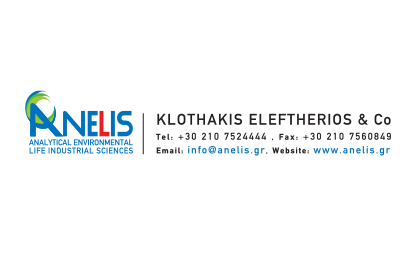
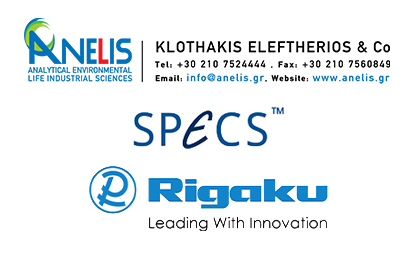
Update sponsor

Changed region(s): [[0.0312, 0.0625, 0.9375, 0.9062], [0.375, 0.1562, 0.9375, 0.3438]]

diff --git a/sponsors.html b/sponsors.html
@@ -189,26 +189,33 @@
                             <img src="images/sponsors/pic08.png" width="400" alt="Anelis"/>
                         </a>
                     </div>
-                    The enterprise <strong>ANELIS</strong>-KLOTHAKIS ELEFTHERIOS was founded in 2006 by Mr. Eleftherios Klothakis,
-                    Chemical Engineer, graduate of The National Technical University of Athens, after a long and
-                    successful career as sales manager, responsible for the promotion of the products of some of the
-                    world's largest companies in the field of Scientific Instruments and Equipment.
-                    <br/>
+                    <p><strong>ANELIS EE &ndash; KLOTHAKIS ELEFTHERIOS Co EE</strong> was founded in 2006. The purpose
+                        is to provide integrated and best quality solutions in the field of scientific instruments and
+                        equipment, combined with full technical and scientific support. The aim of
+                        <strong>ANELIS</strong> is to satisfy the high technology and recent research needs of the
+                        public and the private sector laboratories and to promote the sales of new technologies systems,
+                        with key applications in research, quality control, production process and life sciences. ANELIS
+                        is an ISO9001, ISO14001, ISO13485 accredited company, and&nbsp; is representing state-of-the-art
+                        factories, details given in the link: <a href="http://www.anelis.gr">www.anelis.gr/</a></p>
 
-                    The company continues its successfully operation under in its present legal form ANELIS- KLOTHAKIS
-                    ELEFTHERIOS & Cο Ltd, as a first step to the extension of the areas of activities and partnerships
-                    with new companies.
-                    <br/>
-                    The purpose of ANELIS operation is to provide integrated and best quality solutions in the field of
-                    scientific instruments and equipment, combined with full technical and scientific support.
-                    <br/>
+                    <p><strong>SPECS</strong> leads the way in state-of-the-art technology, cutting-edge components and
+                        individually designed complex systems for surface analysis. SPECS GmbH headquarters are situated
+                        in the center of Germany&rsquo;s capital Berlin with a subsidiary, <a
+                                href="http://www.specs-zurich.com">SPECS Zurich GmbH</a>, based in Zurich, Switzerland.
+                        SPECS forms a team of scientists and engineers with more than 150 employees engaged in the
+                        design and production of instruments for nanotechnology, material science and surface science in
+                        general. For now over 25 years, know-how, experience, intensive contact to scientists from all
+                        over the world, customer orientation and reliable quality control have been the keys to SPECS
+                        success. More details: <a href="https://www.specs-group.com/">https://www.specs-group.com/</a>
+                    </p>
+                    <p><strong>Rigaku Corporation</strong>, has been at the forefront of analytical and industrial
+                        instrumentation technology, since its inception in Japan in 1951. A world leader in the fields
+                        of WD-, ED- and TXRF- X-Ray Fluorescence Spectrometry, X-Ray Diffraction, SAXS Systems, X-Ray
+                        Rotating Anode Generators and Goniometers. Rigaku is also leader in Small Molecule and Protein
+                        Crystallography, Special X-Ray Optics, Differential Scanning Calorimeters (DSC) and combined
+                        XRD+DSC systems, X-Ray Industrial Radiography as well as Vacuum, Cryogenics, EVA, Stress, VPD
+                        Systems etc. More details: <a href="https://rigaku.com/">https://rigaku.com/</a></p>
 
-                    The aim of ANELIS is to satisfy the high technology and recent research needs of the public and the
-                    private sector laboratories and to promote the sales of new technologies systems, with key
-                    applications in research, quality control, production process and life sciences.
-                    <br/>
-
-                    ANELIS has the ISO 9001:2015 cerificate, issued by a worldwide recognized accreditation body AVRV.
                     <br/>
                     <br/>
                     <hr/>
